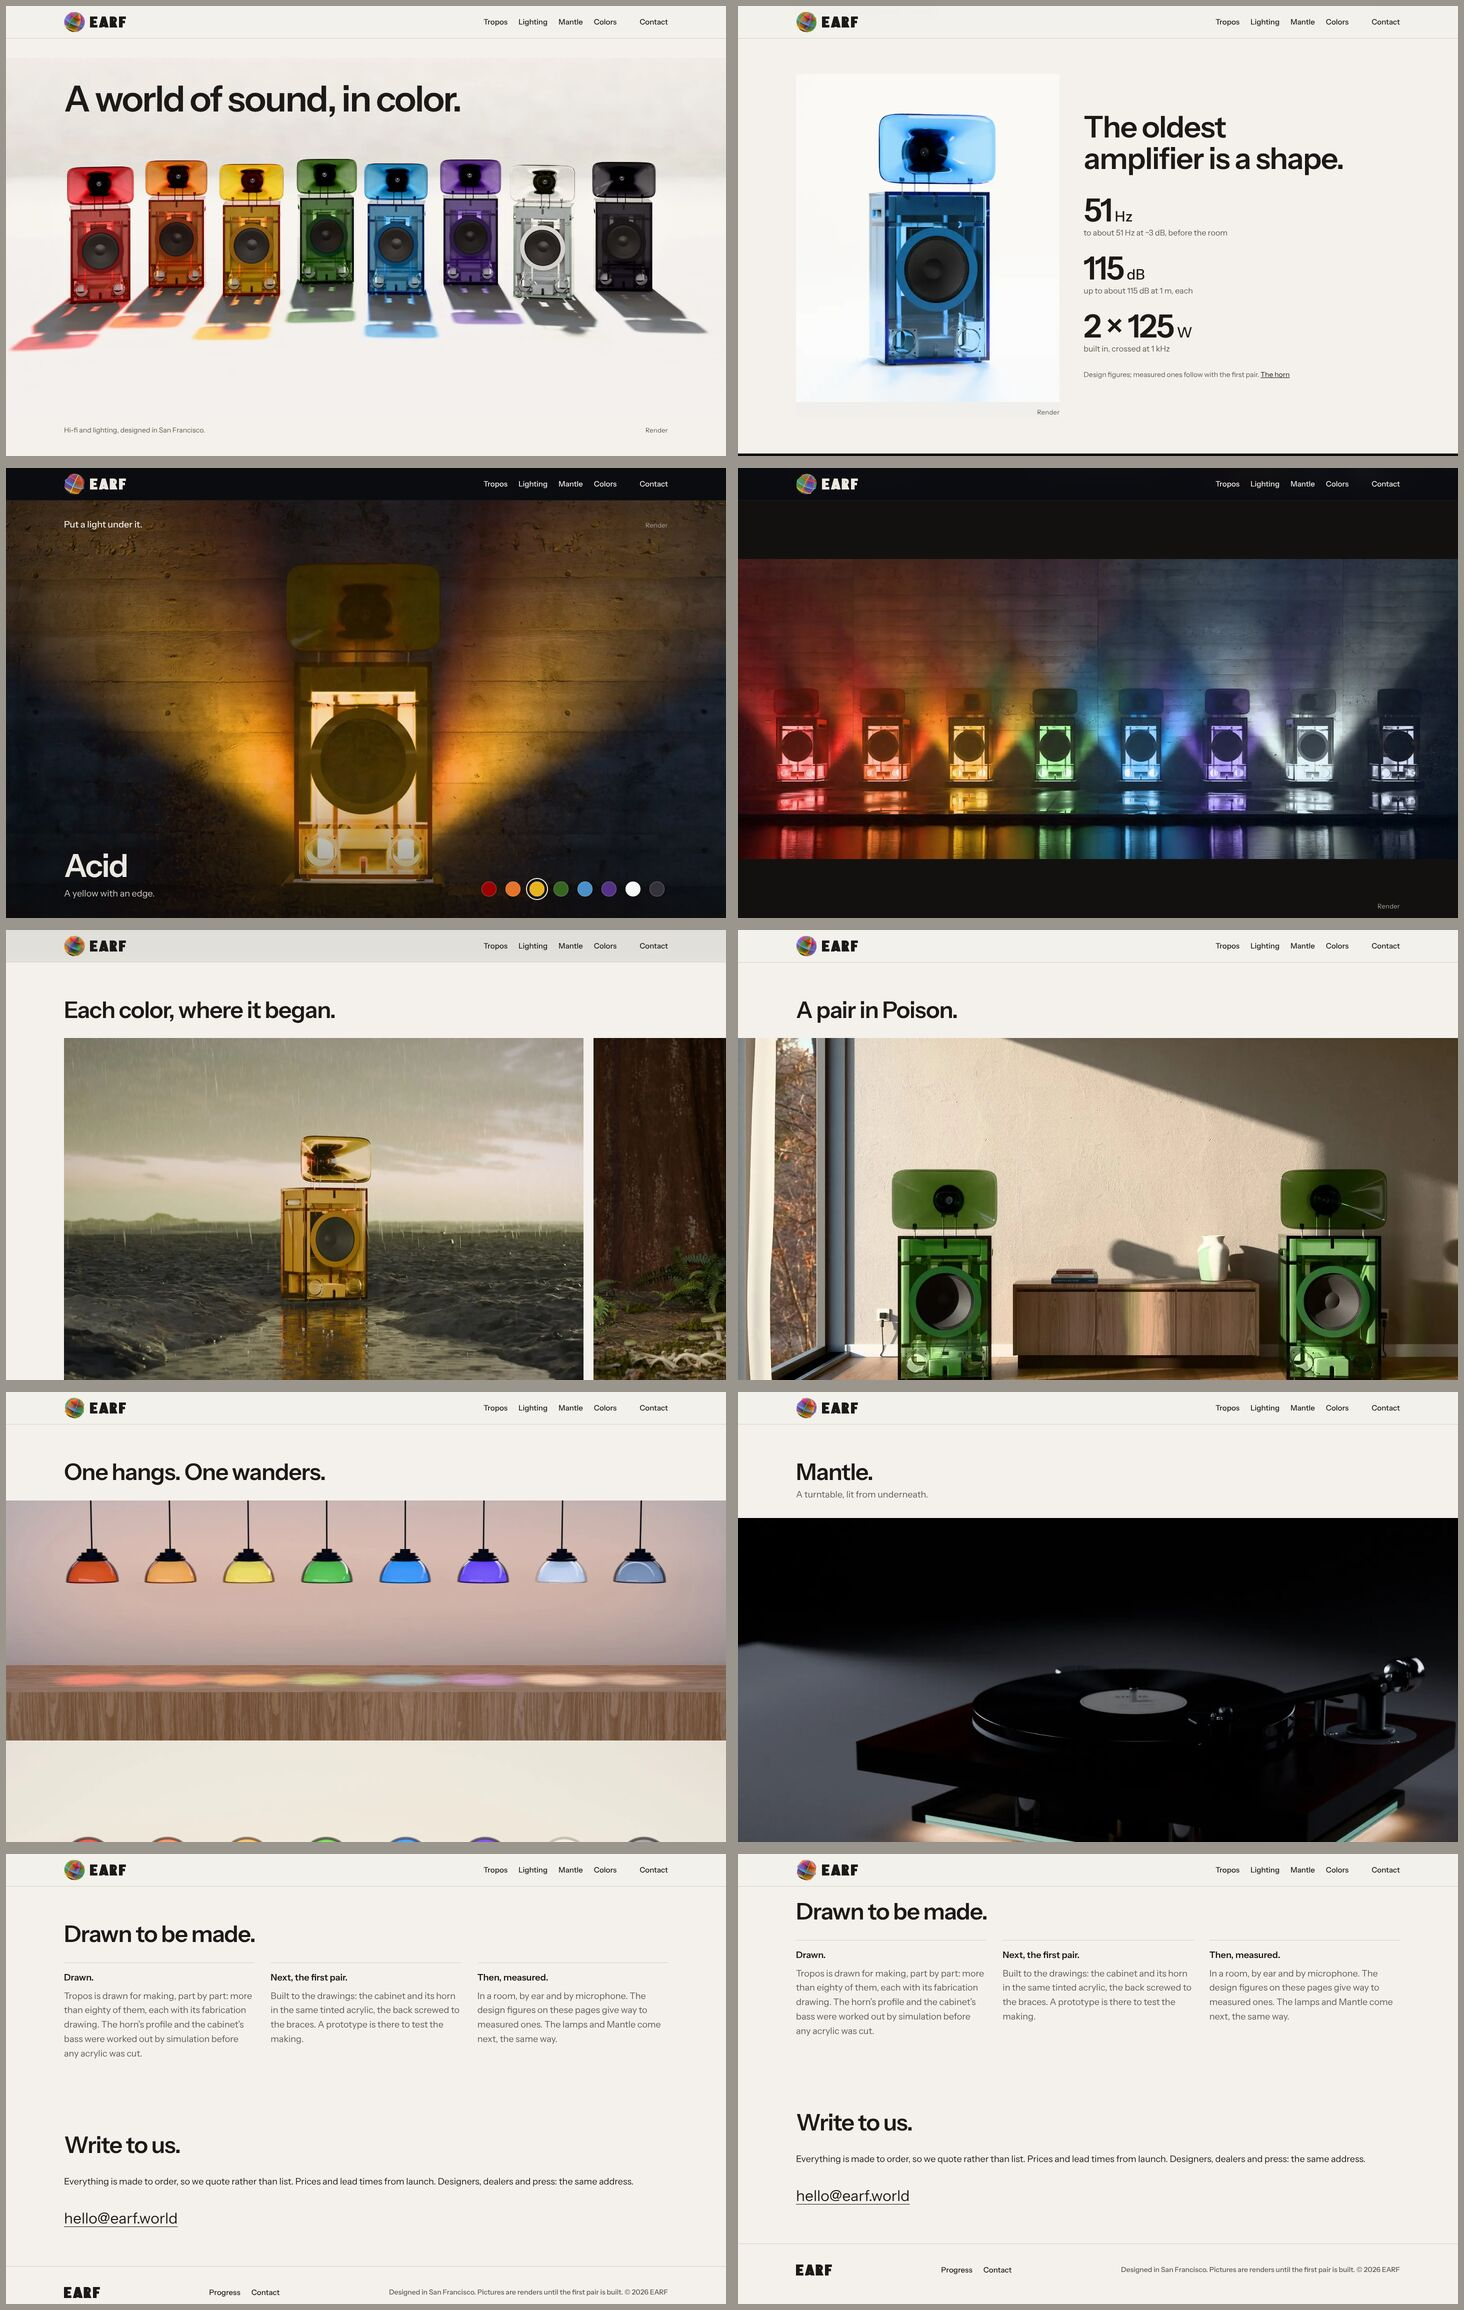
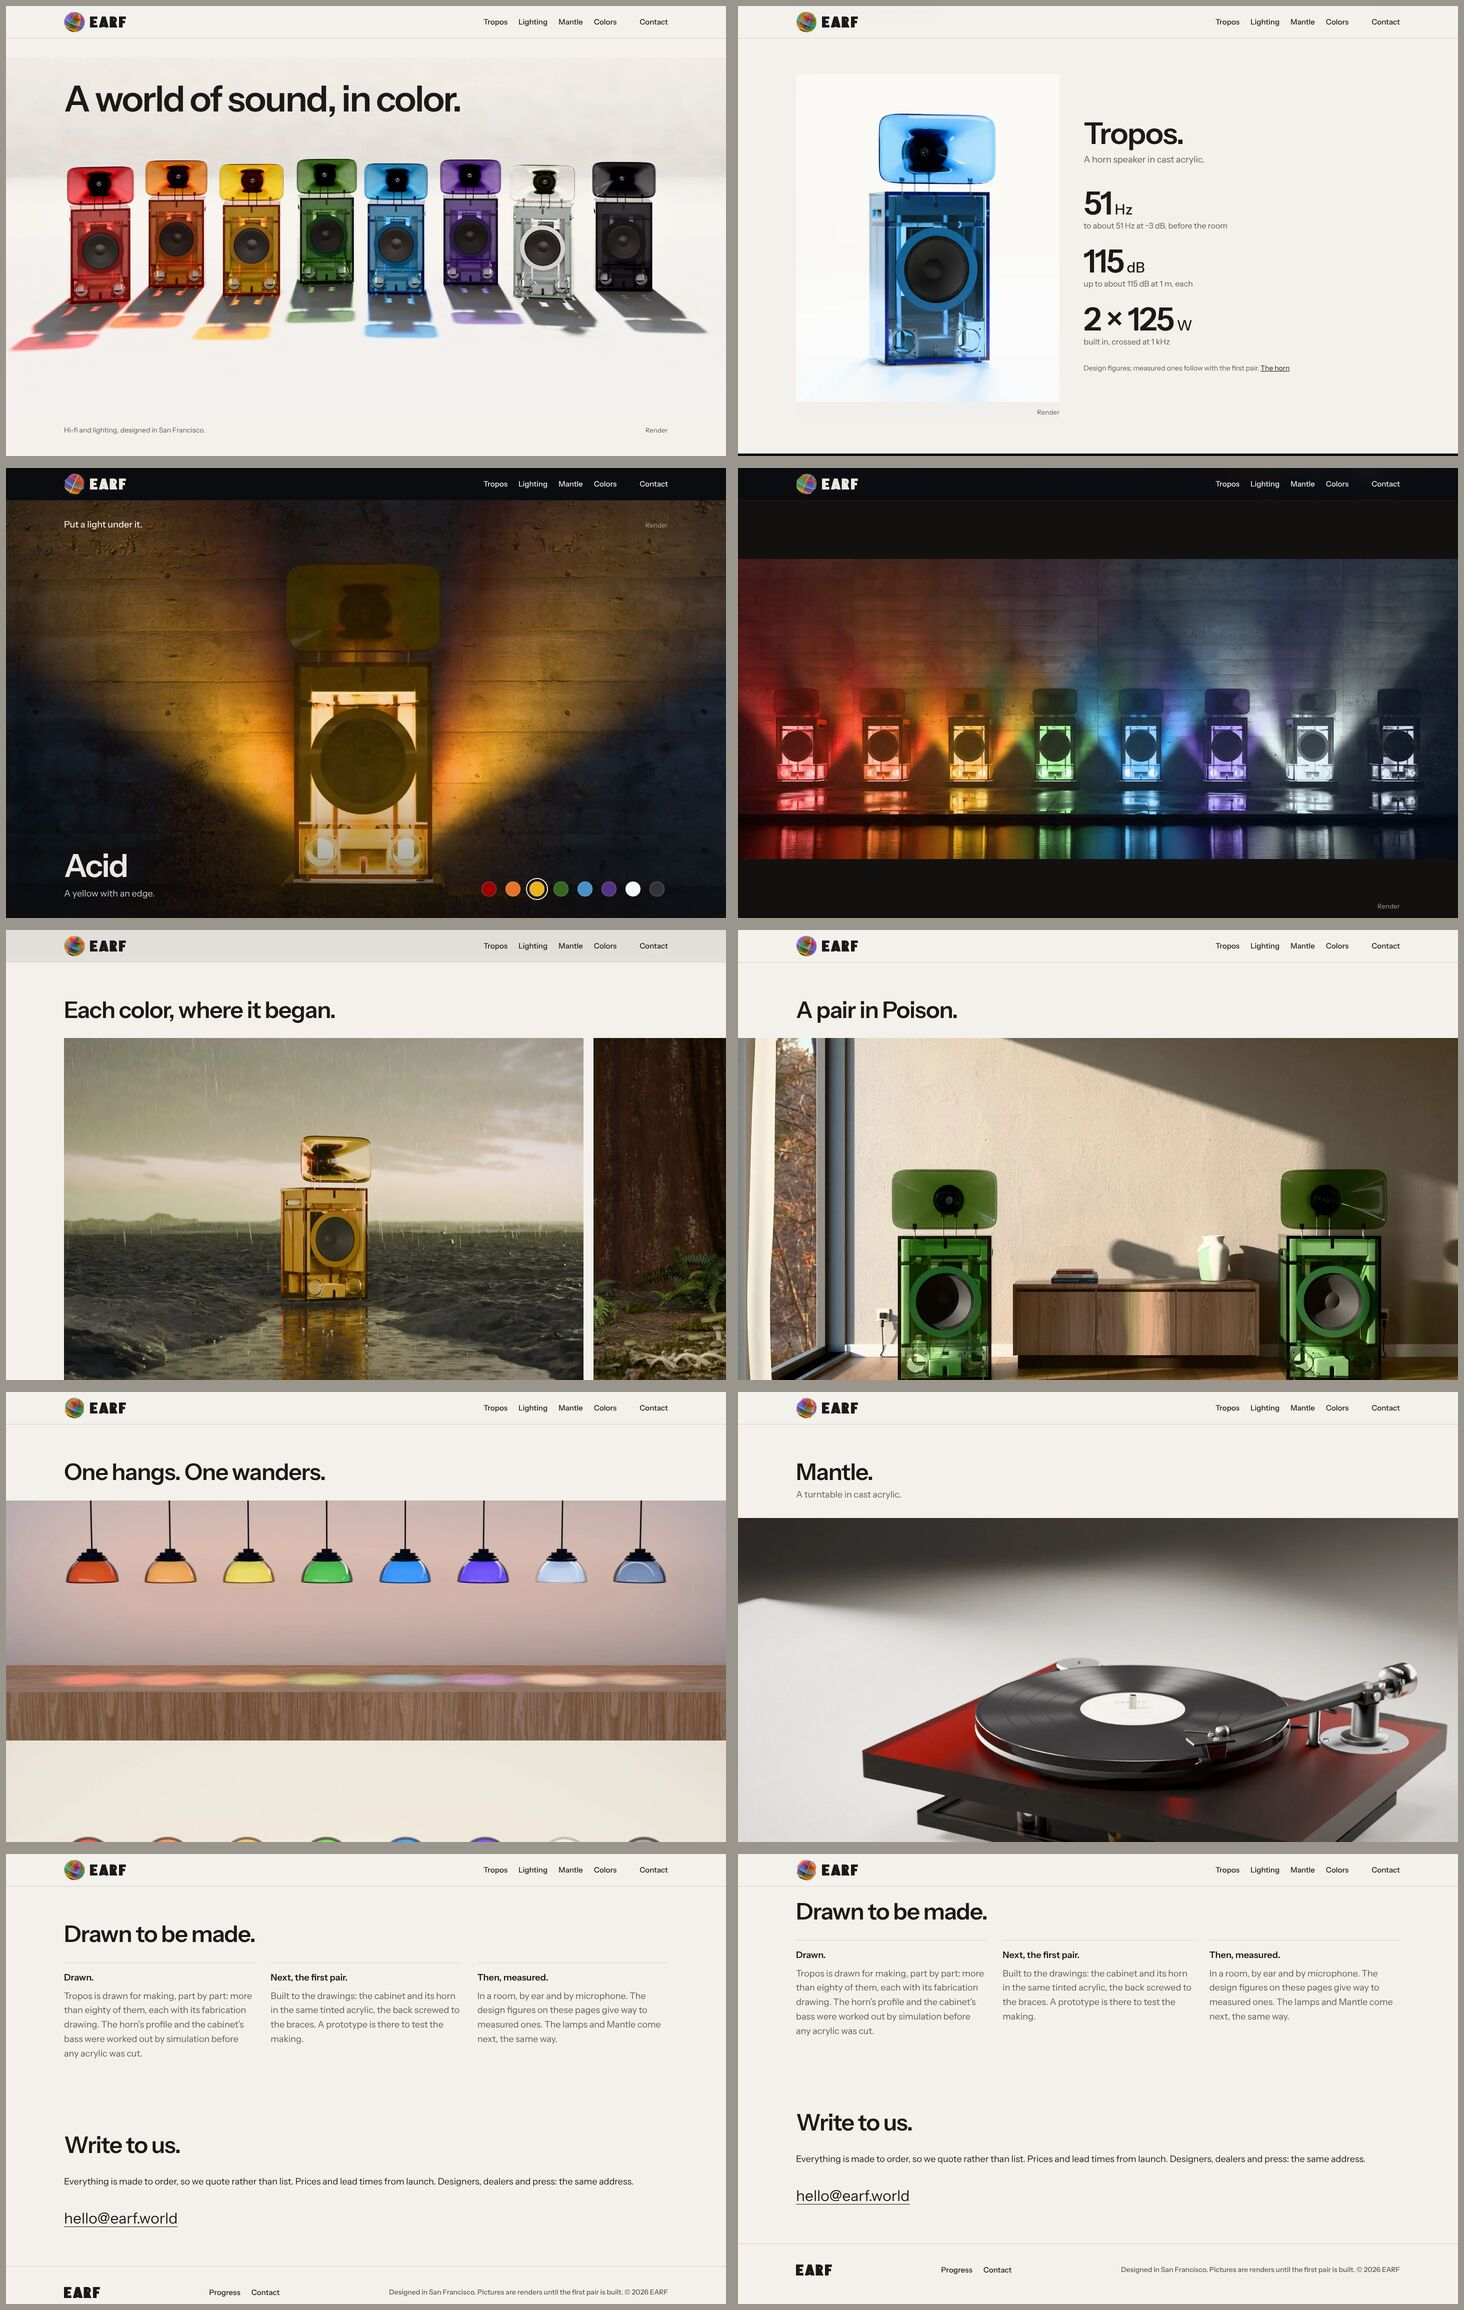
barkhorn site: held: "Tropos." for Sound; no "oldest amplifier"; Mantle by day, light off; no light thrown down
The owner (2026-11-03 05:11): the oldest-amplifier line is silly; Mantle's underglow must pass through the acrylic,
not fall on the floor. Sound is headed "Tropos." with one plain line; the horn chapter, the journal post's
standfirst and body, and its link preview lose the line. Mantle shows the daylight studio frame
(a-studio-ember-2423.png, r48-mantle-design), "A turntable in cast acrylic."; its dusk view and figure go,
and COPY_NEXT's Mantle drafts say nothing about light under it. The build fails on the retired lines.

Claude-Session: https://claude.ai/code/session_01BAaPTnZ3md8RoquoqYWJkd

Changed region(s): [[0.4918, 0.6545, 1.0, 0.8104], [0.7377, 0.0312, 0.9221, 0.1558]]

diff --git a/spinoffs/barkhorn/site_v2.py b/spinoffs/barkhorn/site_v2.py
@@ -39,7 +39,8 @@ class Page:
         page = re.sub(r'<script\b.*?</script>|<style\b.*?</style>', ' ', self.head + self.rest, flags=re.S)
         said = re.findall(r'\b(?:alt|title|content|aria-label)="([^"]*)"', page)    # words in attributes a visitor meets
         text = re.sub(r'<[^>]+>', ' ', page) + ' '.join(said)
-        bad = re.findall(r'(?i)colour|enquir|stockist|microfibre|something in the air|eight things in the air', text)
+        bad = re.findall(r"(?i)colour|enquir|stockist|microfibre|something in the air|eight things in the air|oldest amplifier"
+                         r"|amplifier(?:&rsquo;|\u2019|')s job|pool of its own light|light pools", text)
         assert not bad, ('site_v2: retired words', sorted(set(b.lower() for b in bad)))
 
     def done(self):
@@ -94,6 +95,30 @@ def particulars(p):
         p.rest = p.rest.replace(old, new)
 
 
+def horn_words(p):
+    """The owner (2026-11-03 05:11): the line about the oldest amplifier is silly. It goes from the horn's chapter, the
+    journal post's standfirst and its body."""
+    p.sub('<p class="eyebrow">The horn</p><h2>The oldest amplifier is a shape.</h2>', '<h2>The horn.</h2>')
+    p.sub("""Long before there were amplifiers, a horn was how a small sound filled a large room: the gramophone&rsquo;s, or a
+          cupped hand&rsquo;s. """, '')
+    dek = 'A horn is a shape that does an amplifier&rsquo;s job. Here is one way to make ours.'
+    p.sub(dek, 'How Tropos&rsquo;s horn is made, from one sheet.', n=p.rest.count(dek))
+    p.sub('Long before amplifiers, a horn was how a small sound filled a large room. ', '')
+
+
+def no_light_down(p):
+    """Nothing on the held site shows or says light thrown down from a base (the owner, 05:11): Mantle's dusk view and
+    figure go, and the words that say its base glows."""
+    p.sub("['dusk', 'At dusk', c => `${D.tt.name} in ${c.name} at dusk, its base glowing.`],", '')
+    m = re.search(r'<figure><img src="img/tt-violet-dusk\.jpg".*?</figure>', p.rest, re.S)
+    assert m, 'site_v2: the turntable band\'s dusk figure'
+    p.rest = p.rest[:m.start()] + p.rest[m.end():]
+    p.rest = p.rest.replace(', its base glowing', '')
+    m = re.search(r'<li><figure><img src="img/tt-violet-dusk-1200\.jpg".*?</li>', p.rest, re.S)   # the press kit's (held) copy
+    if m:
+        p.rest = p.rest[:m.start()] + p.rest[m.end():]
+
+
 def words(p):
     """Every line says one thing, once: the explainers, eyebrows and 'See the ...' links go; one name per thing
     (Tropos, Lighting, Mantle; a turntable, never a record player); Contact for Inquire."""
@@ -111,7 +136,7 @@ def words(p):
     p.sub('<span class="t-line">A pendant and a table lamp in the speakers&rsquo; acrylic, frosted within.</span><span class="t-go">See the lighting</span>',
           '<span class="t-line">A pendant and a table lamp.</span>')
     p.sub('<span class="t-line">A record player in the same eight colors, lit from underneath.</span><span class="t-go">See the record player</span>',
-          '<span class="t-line">A turntable, lit from underneath.</span>')
+          '<span class="t-line">A turntable in cast acrylic.</span>')
     p.sub('<div class="head"><div><p class="eyebrow">The lines</p><h2>One acrylic, three ways to use it.</h2></div></div>',
           '<h2 class="vh">The lines</h2>')
     # the speaker line: the brand lane's line for the eight
@@ -292,7 +317,7 @@ def sound(p, web):
   <section class="band sound" id="sound"><div class="wrap sound-grid">
     <figure class="sound-turn" data-frames='{",".join(frames)}'><img src="{frames[2]}" width="600" height="746" loading="lazy"
       alt="Tropos in Ice, turning slowly on a pale seamless"><figcaption><i class="render">Render</i></figcaption></figure>
-    <div class="sound-words"><h2>The oldest amplifier is a shape.</h2>
+    <div class="sound-words"><h2>Tropos.</h2><p class="beat-line">A horn speaker in cast acrylic.</p>
       <ul class="figures">{figs}</ul>
       <p class="foot-note">Design figures; measured ones follow with the first pair. <a href="#turn">The horn</a></p></div>
   </div></section>
@@ -370,6 +395,8 @@ def pages(web):
     """Write the static addresses (V2 on), or take them away (V2 off)."""
     import os, html
     idx = os.path.join(web.SITE, 'index.html')
+    if web.V2 or web.HOME_V2:
+        share_words(web)
     if not (web.V2 or web.HOME_V2) and os.path.isdir(os.path.join(web.IMG, 'v2')):
         import shutil
         shutil.rmtree(os.path.join(web.IMG, 'v2'))
@@ -449,8 +476,8 @@ def lighten(p, web):
     p.sub('<div class="lines"><a class="tile" href="#speakers"><img src=', '<div class="lines"><a class="tile" href="#speakers"><img decoding="async" src=')
 
 
-MANTLE_SRC = 'renders/2026-11-01/barkhorn/mantle-r48/a-dusk-ember-2423.png'
-MANTLE = {'wide': 'img/v2/mantle-dusk-1200.webp', 'full': 'img/v2/mantle-dusk.webp', 'tile': 'img/v2/mantle-dusk-tile.webp'}
+MANTLE_SRC = 'renders/2026-11-01/barkhorn/mantle-r48/a-studio-ember-2423.png'   # by day, its light off (not the dusk frame: its light falls on the floor)
+MANTLE = {'wide': 'img/v2/mantle-studio-1200.webp', 'full': 'img/v2/mantle-studio.webp', 'tile': 'img/v2/mantle-studio-tile.webp'}
 
 
 def mantle(p, web):
@@ -473,7 +500,7 @@ def mantle(p, web):
     m = re.search(r'<a class="tile" href="#turntable"><img [^>]*>', p.rest)
     if m:
         p.rest = p.rest[:m.start()] + ('<a class="tile" href="#turntable"><img decoding="async" src="' + MANTLE['tile'] +
-                                       '" width="1200" height="1500" loading="lazy" alt="Mantle in Ember at dusk, its deck floating over a lit base">') + p.rest[m.end():]
+                                       '" width="1200" height="1500" loading="lazy" alt="Mantle in Ember, its deck floating over a smoked base">') + p.rest[m.end():]
 
 
 def home_v2(p, web):
@@ -492,9 +519,9 @@ def home_v2(p, web):
   </section>"""
     mantle = f"""
   <section class="band beat" id="mantle-beat">
-    <div class="wrap"><h2><a href="#turntable">Mantle.</a></h2><p class="beat-line">A turntable, lit from underneath.</p></div>
+    <div class="wrap"><h2><a href="#turntable">Mantle.</a></h2><p class="beat-line">A turntable in cast acrylic.</p></div>
     <figure class="strip mantle-pic"><img src="{MANTLE['wide']}" srcset="{MANTLE['wide']} 1200w, {MANTLE['full']} 1800w" sizes="100vw" width="1800" height="1200"
-      loading="lazy" alt="Mantle in Ember at dusk, its tinted deck floating over a smoked base, light pooling beneath it">
+      loading="lazy" alt="Mantle in Ember in the studio, its tinted deck floating over a smoked base">
       <figcaption class="wrap"><i class="render">Render</i></figcaption></figure>
   </section>"""
     i = p.rest.index('<main id="home">') + len('<main id="home">')
@@ -507,11 +534,25 @@ def home_v2(p, web):
 /* round 48 (HOME_V2): the launch film */
 .beat h2 a { color: inherit; text-decoration: none } .beat h2 a:hover { text-decoration: underline; text-decoration-thickness: 2px; text-underline-offset: 6px }
 .strip { margin: 32px 0 0 } .strip img { display: block; width: 100%; height: auto } .strip figcaption { padding-top: 12px; color: var(--muted); font-size: 15px }
-.beat-line { color: var(--muted); margin: 8px 0 0 } .mantle-pic { background: #0E0D0F } .mantle-pic figcaption { text-align: right; padding-bottom: 10px } .mantle-pic .render { color: #A39E95 }
+.beat-line { color: var(--muted); margin: 8px 0 0 } .mantle-pic { background: #F1EFEB } .mantle-pic figcaption { text-align: right; padding-bottom: 10px } 
 .type-only { min-height: 60svh; display: grid; align-content: center } .type-only h2 { font-size: clamp(48px, 7vw, 104px) }
 .type-only p { color: var(--muted); max-width: 36ch }
 #sound, #habitats, #room, #lamps-beat, #mantle-beat, #progress, #contact { scroll-margin-top: var(--header) }
 """)
+
+
+def share_words(web):
+    """The link previews web.py writes (s/): the horn post's standfirst, while V2 is on."""
+    import os
+    f = os.path.join(web.SITE, 's', 'journal-the-horn.html')
+    if os.path.exists(f):
+        s = open(f).read()
+        for old in ('A horn is a shape that does an amplifier&rsquo;s job. Here is one way to make ours.',
+                    'A horn is a shape that does an amplifier&#x27;s job. Here is one way to make ours.',
+                    "A horn is a shape that does an amplifier’s job. Here is one way to make ours."):
+            s = s.replace(old, 'How Tropos&rsquo;s horn is made, from one sheet.')
+        assert not re.search(r"(?i)amplifier(?:&rsquo;|&#x27;|’|')s job|oldest amplifier", s), 'site_v2: s/journal-the-horn'
+        open(f, 'w').write(s)
 
 
 def render_word(p):
@@ -519,7 +560,7 @@ def render_word(p):
     (above); here the light stage, the uplit eight and the lines' tiles. The footer says it once for the site."""
     p.sub('<p class="light-kicker" aria-hidden="true">Put a light under it.</p>', '<p class="light-kicker" aria-hidden="true">Put a light under it.</p><i class="render on-dark">Render</i>')
     p.sub('<i class="snap-eight" aria-hidden="true"></i>', '<i class="snap-eight" aria-hidden="true"></i><i class="render on-dark eight-render">Render</i>')
-    for line in ('A powered horn loudspeaker.', 'A pendant and a table lamp.', 'A turntable, lit from underneath.'):
+    for line in ('A powered horn loudspeaker.', 'A pendant and a table lamp.', 'A turntable in cast acrylic.'):
         p.sub(f'<span class="t-line">{line}</span>', f'<span class="t-line">{line} <i class="render">Render</i></span>')
     p.css("""
 .light-intro { display: flex; justify-content: space-between; align-items: baseline }
@@ -552,6 +593,8 @@ def apply(web, head, rest):
     if web.V2 or web.HOME_V2:                 # HOME_V2 is built on the fixes
         pairings(p)
         particulars(p)
+        horn_words(p)
+        no_light_down(p)
         words(p)
         kit(p)
         tokens(p, web)

diff --git a/spinoffs/barkhorn/web.py b/spinoffs/barkhorn/web.py
@@ -195,11 +195,13 @@ COPY_NEXT = False
 V2 = False
 HOME_V2 = False
 TT_NEXT = dict(
-    line='A record player that floats over a pool of its own light.',
+    # the owner, 2026-11-03 05:11: Mantle's light must shine through the acrylic, not down; it is being redrawn, so
+    # until it is shown, no words about light from its base (the coordinator)
+    line='A turntable in cast acrylic.', kind='Turntable',
     # the Mantle lane's spec as built (r48-mantle-design 71d3163e, companions/mantle-r48/README.md section 11)
     facts=[('Plinth', 'Two sheets of cast acrylic in its color, cemented into one, 25.4 mm, tinted through; it floats 40 mm over the base'),
            ('Posts', 'Four solid posts of polished stainless steel, 30 mm across'),
-           ('Base', 'Smoke cast acrylic, 12.7 mm, set in 35 mm all round, with a loop of light beneath it; at dusk the light pools on the shelf'),
+           ('Base', 'Smoke cast acrylic, 12.7 mm, set in 35 mm all round'),
            ('Drive', 'Belt, from Rega&rsquo;s 24 V motor, fixed beneath the plinth'),
            ('Speeds', '33 and 45, by a button'), ('Arm', 'Rega RB330'), ('Cartridge', 'Ortofon 2M Black'),
            ('Phono stage', 'Built in, for moving-magnet cartridges, with a line out and a switch to bypass it'),
@@ -210,8 +212,8 @@ NEXT_TEXT = {   # today's words -> the drafts (each must be found exactly once i
     # Mantle's band on the home page
     'acrylic. Its tinted plinth floats 40&nbsp;mm over a base that glows at its edge. The motor stands apart in a pod of its '
     'own, and the phono stage is built in.':
-        'acrylic. Its tinted plinth floats 40&nbsp;mm over a smoked base on four polished steel posts, and at dusk a '
-        'loop of light beneath it pools on the shelf. The motor is fixed under the plinth, and the phono stage is built in.',
+        'acrylic. Its tinted plinth floats 40&nbsp;mm over a smoked base on four polished steel posts. The motor is fixed '
+        'under the plinth, and the phono stage is built in.',
     'The lid raised. Its hinges sit on brass inserts, so no screw cuts the acrylic.':
         'The lid raised, on friction hinges. They sit on threaded inserts, so no screw cuts the acrylic.',
     'The motor stands apart, in a brass pod on soft feet, so its hum stays out of the plinth.':
